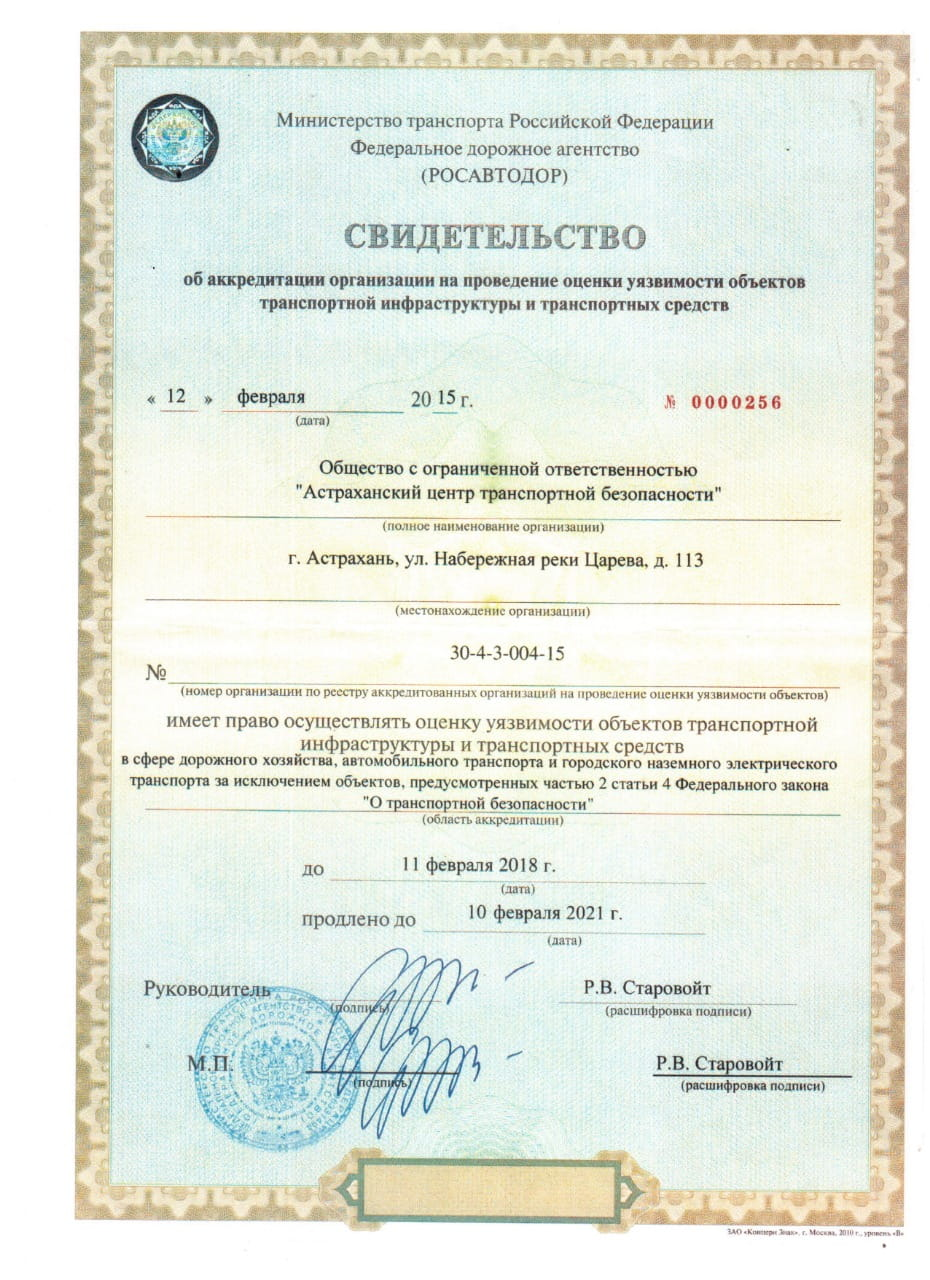
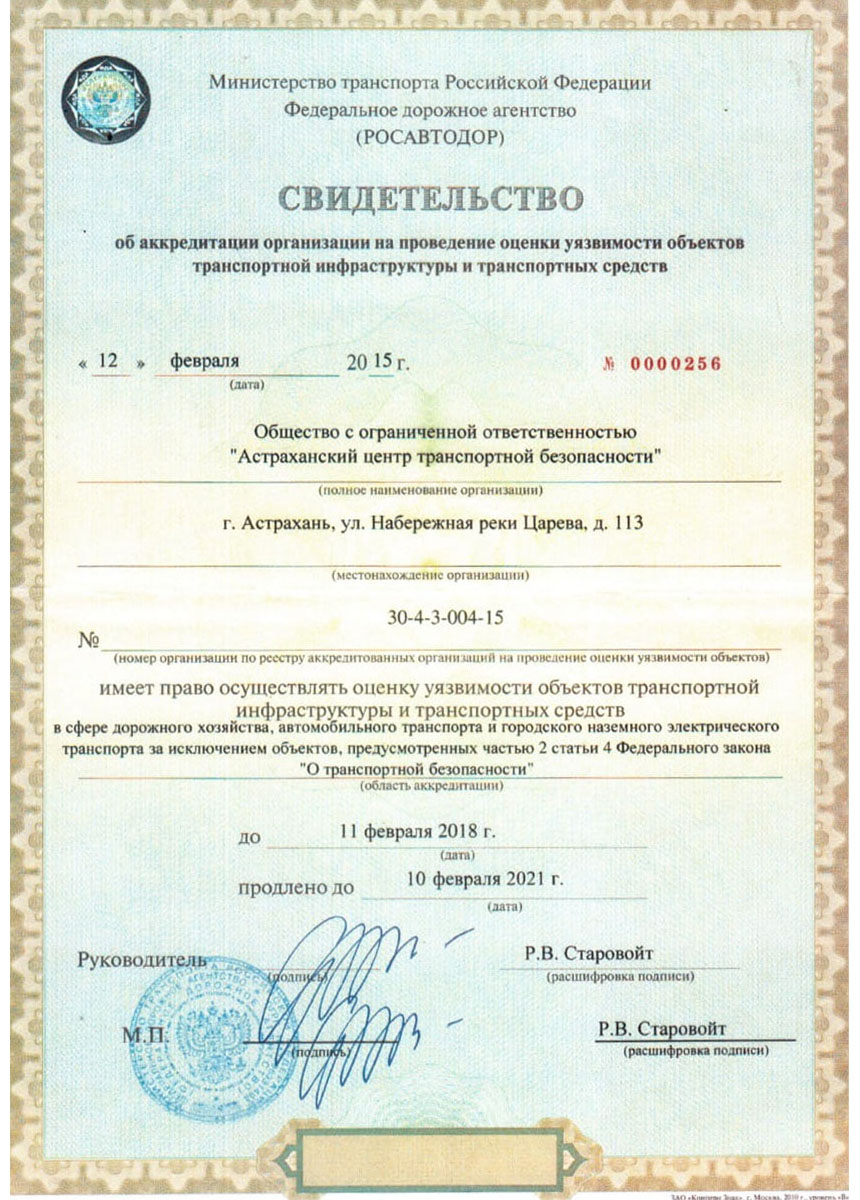
save

diff --git a/source/index.html b/source/index.html
@@ -88,6 +88,10 @@
           </p>
         </div>
       </div>
+      <div class="licenses__modal">
+        <button class="licenses__modal-close" type="button" aria-label="закрыть"></button>
+        <img src="img/doc1f.jpg" width="860" height="1200" alt="свидетельство">
+      </div>
     </section>
     <section class="service" id="service">
       <h2 class="service__title">Наши услуги</h2>
@@ -229,10 +233,7 @@
         <button class="feedback__btn" type="submit">Отправить</button>
       </form>
     </section>
-    <div class="licenses__modal">
-      <button class="licenses__modal-close" type="button" aria-label="закрыть"></button>
-      <img src="img/doc1f.jpg" width="930" height="1280" alt="свидетельство">
-    </div>
+
   </main>
   <script src="js/libs.min.js"></script>
   <script src="js/script.js"></script>

diff --git a/source/sass/blocks/_licenses.scss b/source/sass/blocks/_licenses.scss
@@ -1,4 +1,5 @@
 .licenses {
+  position: relative;
   background-color: #252525;
   color: #fff;
 }
@@ -60,10 +61,11 @@
 
 .licenses__modal {
   display: none;
-  position: fixed;
-  top: 265px;
+  position: absolute;
+  top: 0;
   left: 0;
-  max-width: 400px;
+  z-index: 2;
+  margin: auto;
 
   &--show {
     display: block;
